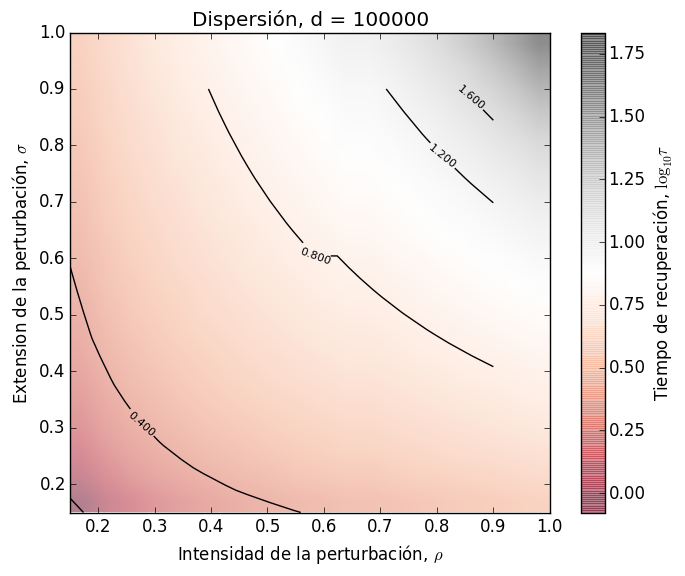
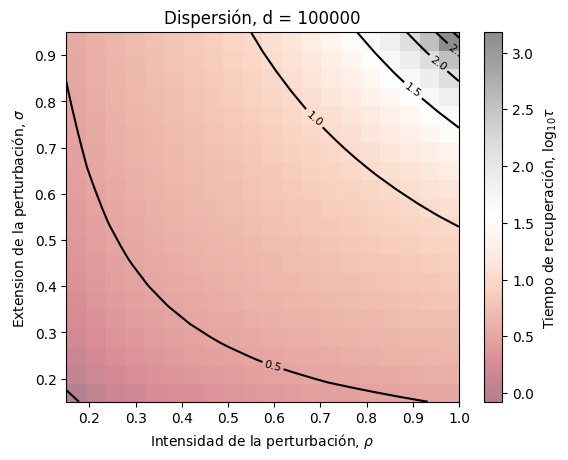
15 may

diff --git a/code/aux.py b/code/aux.py
@@ -23,6 +23,7 @@ def find(vec, elem):
                 elem[j] = 9999.99999
     return result
 
+# Fixes the number of divisions in the x axis according to sistem size, dispersal and growth rate 
 def fix_nx(L, a, r):
     Nx = 0
     if a != 0:
@@ -49,8 +50,9 @@ def return_time(a, r, L, Nx = "", sigma = .5, rho = .85, I = step_fun, F = .4, K
 
     ## Vector espacial
     dx = L / Nx
-    # print("Nx = %.3f" %Nx)
     x = np.linspace(0, L, Nx)
+
+    # print("Nx = %.3f" %Nx)
 
     time_vec = np.array([])   
     integral = np.array([])
@@ -76,6 +78,7 @@ def return_time(a, r, L, Nx = "", sigma = .5, rho = .85, I = step_fun, F = .4, K
     umax = u.max()
     mixing = False
 
+    # Values to choose when to show the plots according to recovered biomass
     values = K * (1 - np.array([1, .97, .9, .5, .2,  .025]) * s)
     values_copy = copy.copy(values)
 
@@ -83,7 +86,7 @@ def return_time(a, r, L, Nx = "", sigma = .5, rho = .85, I = step_fun, F = .4, K
         plot1 = pl.figure(1)
 
     while suma < .99 * K:
-    # while suma < (1 - .7*s) * K: 
+    # while suma < (1 - .7*s) * K: ## This can be useful when looking only to regime type (not as precise)
         u[0:Nx] = u_1[0:Nx] + dt * r * u_1[0:Nx] * (1 - u_1[0:Nx] / K) * (u_1[0:Nx] / K) ** gamma\
         + F * (np.append(u_1[Nx-1], u_1[0:Nx-1]) - 2 * u_1[0:Nx] + np.append(u_1[1:Nx], u_1[0]))
 
@@ -91,6 +94,8 @@ def return_time(a, r, L, Nx = "", sigma = .5, rho = .85, I = step_fun, F = .4, K
         suma = np.sum(u * dx) / L
         integral = np.append(integral, suma)
         time_vec = np.append(time_vec, t)
+        
+        # print(suma)
 
         u_1, u = u, u_1
         t+=dt
@@ -118,41 +123,41 @@ def return_time(a, r, L, Nx = "", sigma = .5, rho = .85, I = step_fun, F = .4, K
         if saveImage:
             pl.savefig("../images/perfiles/perfiles_%i_%i" %(r, a), bbox_inches = "tight")
 
-    #     # Plot para la integral de la biomasa en funcion de t
-    #     plot2 = pl.figure(2)
+        # Plot para la integral de la biomasa en funcion de t
+        plot2 = pl.figure(2)
 
-    #     time_vec_help = np.append(np.linspace(-.05 * time_vec.max(), 0, 100), time_vec)
-    #     integral_help = np.append(np.repeat(K, 100), integral)
+        time_vec_help = np.append(np.linspace(-.05 * time_vec.max(), 0, 100), time_vec)
+        integral_help = np.append(np.repeat(K, 100), integral)
 
-    #     pl.plot(time_vec_help, integral_help)    
-    #     pl.ylim(.95 - s, 1.02 * K)
-    #     pl.xlim(time_vec_help.min(), time_vec_help.max()+.003 * time_vec_help.max())
-    #     pl.ylabel("Biomasa / K")
-    #     pl.xlabel("Tiempo")
+        pl.plot(time_vec_help, integral_help)    
+        pl.ylim(.95 - s, 1.02 * K)
+        pl.xlim(time_vec_help.min(), time_vec_help.max()+.003 * time_vec_help.max())
+        pl.ylabel("Biomasa / K")
+        pl.xlabel("Tiempo")
 
-    #     markers = find(integral, values_copy)
-    #     c = 0
-    #     for i in markers:  
-    #         pl.plot(time_vec[i], integral[i], color = col_list[c][0].get_color(), marker = "o")    
-    #         c+=1
-    #     if saveImage:
-    #         pl.savefig("../images/perfiles/integral_%i_%i" %(r, a), bbox_inches = "tight")
+        markers = find(integral, values_copy)
+        c = 0
+        for i in markers:  
+            pl.plot(time_vec[i], integral[i], color = col_list[c][0].get_color(), marker = "o")    
+            c+=1
+        if saveImage:
+            pl.savefig("../images/perfiles/integral_%i_%i" %(r, a), bbox_inches = "tight")
 
 
-    #     ## Plot para el parameter space de las disturbances
-    #     plot3 = pl.figure(3)
-    #     x_vec = np.linspace(0.01, 1, 100)
-    #     y_vec = s / x_vec
-    #     pl.plot(x_vec, y_vec, "k--")
-    #     pl.plot(rho, sigma, "ro")
-    #     pl.xlabel("Intensidad de la perturbacion, " + r"$\rho$")
-    #     pl.ylabel("Extension de la perturbacion, "+ r"$\sigma$")
-    #     pl.title(r"$s = \sigma\rho$" + " = %.2f" %s)
-    #     pl.text(.6, s / .6 + .05, "s = %.2f" %s)
-    #     pl.ylim(0, 1)
-    #     pl.xlim(0, 1)
-    #     if saveImage:
-    #         pl.savefig("../images/perfiles/parametros_%i_%i" %(r, a), bbox_inches = "tight")
+        ## Plot para el parameter space de las disturbances
+        plot3 = pl.figure(3)
+        x_vec = np.linspace(0.01, 1, 100)
+        y_vec = s / x_vec
+        pl.plot(x_vec, y_vec, "k--")
+        pl.plot(rho, sigma, "ro")
+        pl.xlabel("Intensidad de la perturbacion, " + r"$\rho$")
+        pl.ylabel("Extension de la perturbacion, "+ r"$\sigma$")
+        pl.title(r"$s = \sigma\rho$" + " = %.2f" %s)
+        pl.text(.6, s / .6 + .05, "s = %.2f" %s)
+        pl.ylim(0, 1)
+        pl.xlim(0, 1)
+        if saveImage:
+            pl.savefig("../images/perfiles/parametros_%i_%i" %(r, a), bbox_inches = "tight")
 
     return r * (t-dt), s, mixing
 
@@ -165,7 +170,7 @@ def regimes(a, r, L, Nx = "", sigma = .5, rho = .85, I = step_fun, F = .4, K = 1
         tau, _, mix = return_time(a, r, L, Nx, sigma, rho, I, F, K, gamma, compare = True)
         if not mix:
             tau0, _, _ = return_time(0, r, L, Nx, sigma, rho, I, F, K, gamma, compare = True)
-            if abs(tau-tau0)< 30:
+            if abs(tau-tau0) < 30:
                 reg = 1 
         else:
             reg = 3 

diff --git a/code/compara.py b/code/compara.py
@@ -10,36 +10,111 @@ try:
 	size = int(sys.argv[1])
 except:
 	size = 20
-# try:
-# 	rho = float(sys.argv[5])
-# except:
-# 	rho = .85
 
 dis_values_log = np.linspace(-4, 4, size)
 dis_values = 10 ** dis_values_log
-l_values_log = np.linspace(1, 4, size)
-l_values = 10 ** l_values_log
+
+############################# L ##############################################
+
+# l_values_log = np.linspace(1, 4, size)
+# l_values = 10 ** l_values_log
+
+# regimes_array = np.empty(shape = (size, size), dtype = float)
+
+# for i in range(0, size):
+# 	for j in range(0, size):
+# 		regimes_array[i, j] = regimes(dis_values[j], r, l_values[i], Nx = "", sigma = .5, rho = .9, I = step_fun, F = .4, K = 1, gamma = 3)
+
+# fig, ax = pl.subplots(1,1)
+
+# img = ax.imshow(regimes_array, origin = "lower", extent=[-1,1,-1,1])
+
+# # indices_dis = find(dis_values_log, [-4, -2, 0, 2, 4])
+# # indices_l = find()
+
+# x_label_list = [round(dis_values_log[0], 1), round(dis_values_log[int(.25 * size)], 1),round(dis_values_log[int(.5 * size)], 1) ,\
+#  round(dis_values_log[int(.75 * size)], 1) ,round(dis_values_log[size-1], 1)]
+
+# y_label_list = [round(l_values_log[0], 1), round(l_values_log[int(.25 * size)], 1),round(l_values_log[int(.5 * size)], 1) ,\
+#  round(l_values_log[int(.75 * size)], 1) ,round(l_values_log[size-1], 1)]
+
+# ax.set_xticks([-1,-0.5,0,0.5,1])
+# ax.set_yticks([-1,-0.5,0,0.5,1])
+
+# ax.set_xticklabels(x_label_list)
+# ax.set_yticklabels(y_label_list)
+
+# pl.xlabel("Dispersión, " + r"$\log_{10}d$")
+# pl.ylabel("Tamaño del sistema, " + r"$\log_{10} L$")
+
+# pl.savefig("../images/compara/comparaL_%i" %size, bbox_inches = "tight")
+
+
+# pl.show()
+
+############################# GAMMA ##############################################
+
+# g_values = np.linspace(0, 6, size)
+
+# regimes_array = np.empty(shape = (size, size), dtype = float)
+
+# for i in range(0, size):
+# 	for j in range(0, size):
+# 		regimes_array[i, j] = regimes(dis_values[j], r, L = 100, Nx = "", sigma = .5, rho = .9, I = step_fun, F = .4, K = 1, gamma = g_values[i])
+
+# fig, ax = pl.subplots(1,1)
+
+# img = ax.imshow(regimes_array, origin = "lower", extent=[-1,1,-1,1])
+
+# x_label_list = [round(dis_values_log[0], 1), round(dis_values_log[int(.25 * size)], 1),round(dis_values_log[int(.5 * size)], 1) ,\
+#  round(dis_values_log[int(.75 * size)], 1) ,round(dis_values_log[size-1], 1)]
+
+# y_label_list = [round(g_values[0], 1), round(g_values[int(.25 * size)], 1),round(g_values[int(.75 * size)], 1) ,round(g_values[size-1], 1)]
+
+# ax.set_xticks([-1,-0.5,0,0.5,1])
+# ax.set_yticks([-1,-0.5,0.5,1])
+
+# ax.set_xticklabels(x_label_list)
+# ax.set_yticklabels(y_label_list)
+
+# pl.xlabel("Dispersión, " + r"$\log_{10}d$")
+# pl.ylabel("No-linealidad, " + r"$\gamma$")
+
+# pl.savefig("../images/compara/comparaG_%i" %size, bbox_inches = "tight")
+
+
+# pl.show()
+
+############################# RHO ##############################################
+
+rho_values = np.linspace(.01, 1, size)
+
 regimes_array = np.empty(shape = (size, size), dtype = float)
 
 for i in range(0, size):
 	for j in range(0, size):
-		regimes_array[i, j] = regimes(dis_values[j], r, l_values[i], Nx = "", sigma = .5, rho = .85, I = step_fun, F = .4, K = 1, gamma = 3)
-		# print("For d = %.2f, L = %.2f, regime is %i" %(dis_values[i], l_values[j], regimes_array[i, j]))
+		regimes_array[i, j] = regimes(dis_values[j], r, L = 100, Nx = "", sigma = .5, rho = rho_values[i], I = step_fun, F = .4, K = 1, gamma = 3)
+		print(dis_values[j], rho_values[i])
 
 fig, ax = pl.subplots(1,1)
 
 img = ax.imshow(regimes_array, origin = "lower", extent=[-1,1,-1,1])
 
-x_label_list = [round(dis_values_log[0], 1), round(dis_values_log[.25 * size], 1),round(dis_values_log[.5 * size], 1) ,\
- round(dis_values_log[.75 * size], 1) ,round(dis_values_log[size-1], 1)]
+x_label_list = [round(dis_values_log[0], 1), round(dis_values_log[int(.25 * size)], 1),round(dis_values_log[int(.5 * size)], 1) ,\
+ round(dis_values_log[int(.75 * size)], 1) ,round(dis_values_log[size-1], 1)]
 
-y_label_list = [round(l_values_log[0], 1), round(l_values_log[.25 * size], 1),round(l_values_log[.5 * size], 1) ,\
- round(l_values_log[.75 * size], 1) ,round(l_values_log[size-1], 1)]
+y_label_list = [round(rho_values[0], 1), round(rho_values[int(.25 * size)], 1),round(rho_values[int(.75 * size)], 1) ,round(rho_values[size-1], 1)]
 
 ax.set_xticks([-1,-0.5,0,0.5,1])
-ax.set_yticks([-1,-0.5,0,0.5,1])
+ax.set_yticks([-1,-0.5,0.5,1])
 
 ax.set_xticklabels(x_label_list)
 ax.set_yticklabels(y_label_list)
+
+pl.xlabel("Dispersión, " + r"$\log_{10}d$")
+pl.ylabel("Intensidad de la perturbación, " + r"$\rho$")
+
+# pl.savefig("../images/compara/comparaR_%i" %size, bbox_inches = "tight")
+
 
 pl.show()

diff --git a/code/rettime.py b/code/rettime.py
@@ -10,7 +10,7 @@ a = float(sys.argv[2])
 L = int(sys.argv[3])
 
 try:
-    Nx = float(sys.argv[4])
+    Nx = int(sys.argv[4])
 except:
     Nx = ""
 
@@ -19,16 +19,19 @@ try:
 except:
     size = 20
 
-rho_values = np.linspace(0.15, .95, size)
+rho_values = np.linspace(0.15, 1, size)
 sigma_values = np.linspace(0.15, .95, size)
 tau_values = np.empty(shape = (size, size), dtype = float)
 
 for i in range(0,size):
     for j in range(0, size):
         tau_values[i, j], _ , _= return_time(a, r, L, Nx, sigma_values[j], rho_values[i], I = step_fun, F = .4, K = 1, gamma = 3)
+        # if rho_values[i] != rho_values[i-1]:
+        #     print(rho_values[i], sigma_values[j])
 
 
-contours = pl.contour(rho_values, sigma_values, np.log10(tau_values), 5, colors = "black")
+
+contours = pl.contour(rho_values, sigma_values, np.log10(tau_values), 6, colors = "black")
 pl.clabel(contours, inline=True, fontsize=8)
 pl.imshow(np.log10(tau_values), extent = [0.15, 1, 0.15, .95], origin = "lower", cmap = "RdGy", alpha = .5)# norm = colors.LogNorm(), )
 
@@ -38,8 +41,7 @@ pl.xlabel("Intensidad de la perturbación, " + r"$\rho$")
 pl.ylabel("Extension de la perturbación, " + r"$\sigma$")
 pl.title("Dispersión, d = %i" %a)
 
-pl.savefig("../images/recovery/return_%i" %a, bbox_inches = "tight")
+# pl.savefig("../images/recovery/return_%i" %a, bbox_inches = "tight")
 
 pl.show()
-
 

diff --git a/code/perfiles.py b/code/perfiles.py
@@ -9,7 +9,7 @@ a = float(sys.argv[2])
 L = int(sys.argv[3])
 
 try:
-	Nx = float(sys.argv[4])
+	Nx = int(sys.argv[4])
 except:
 	Nx = ""
 try:
